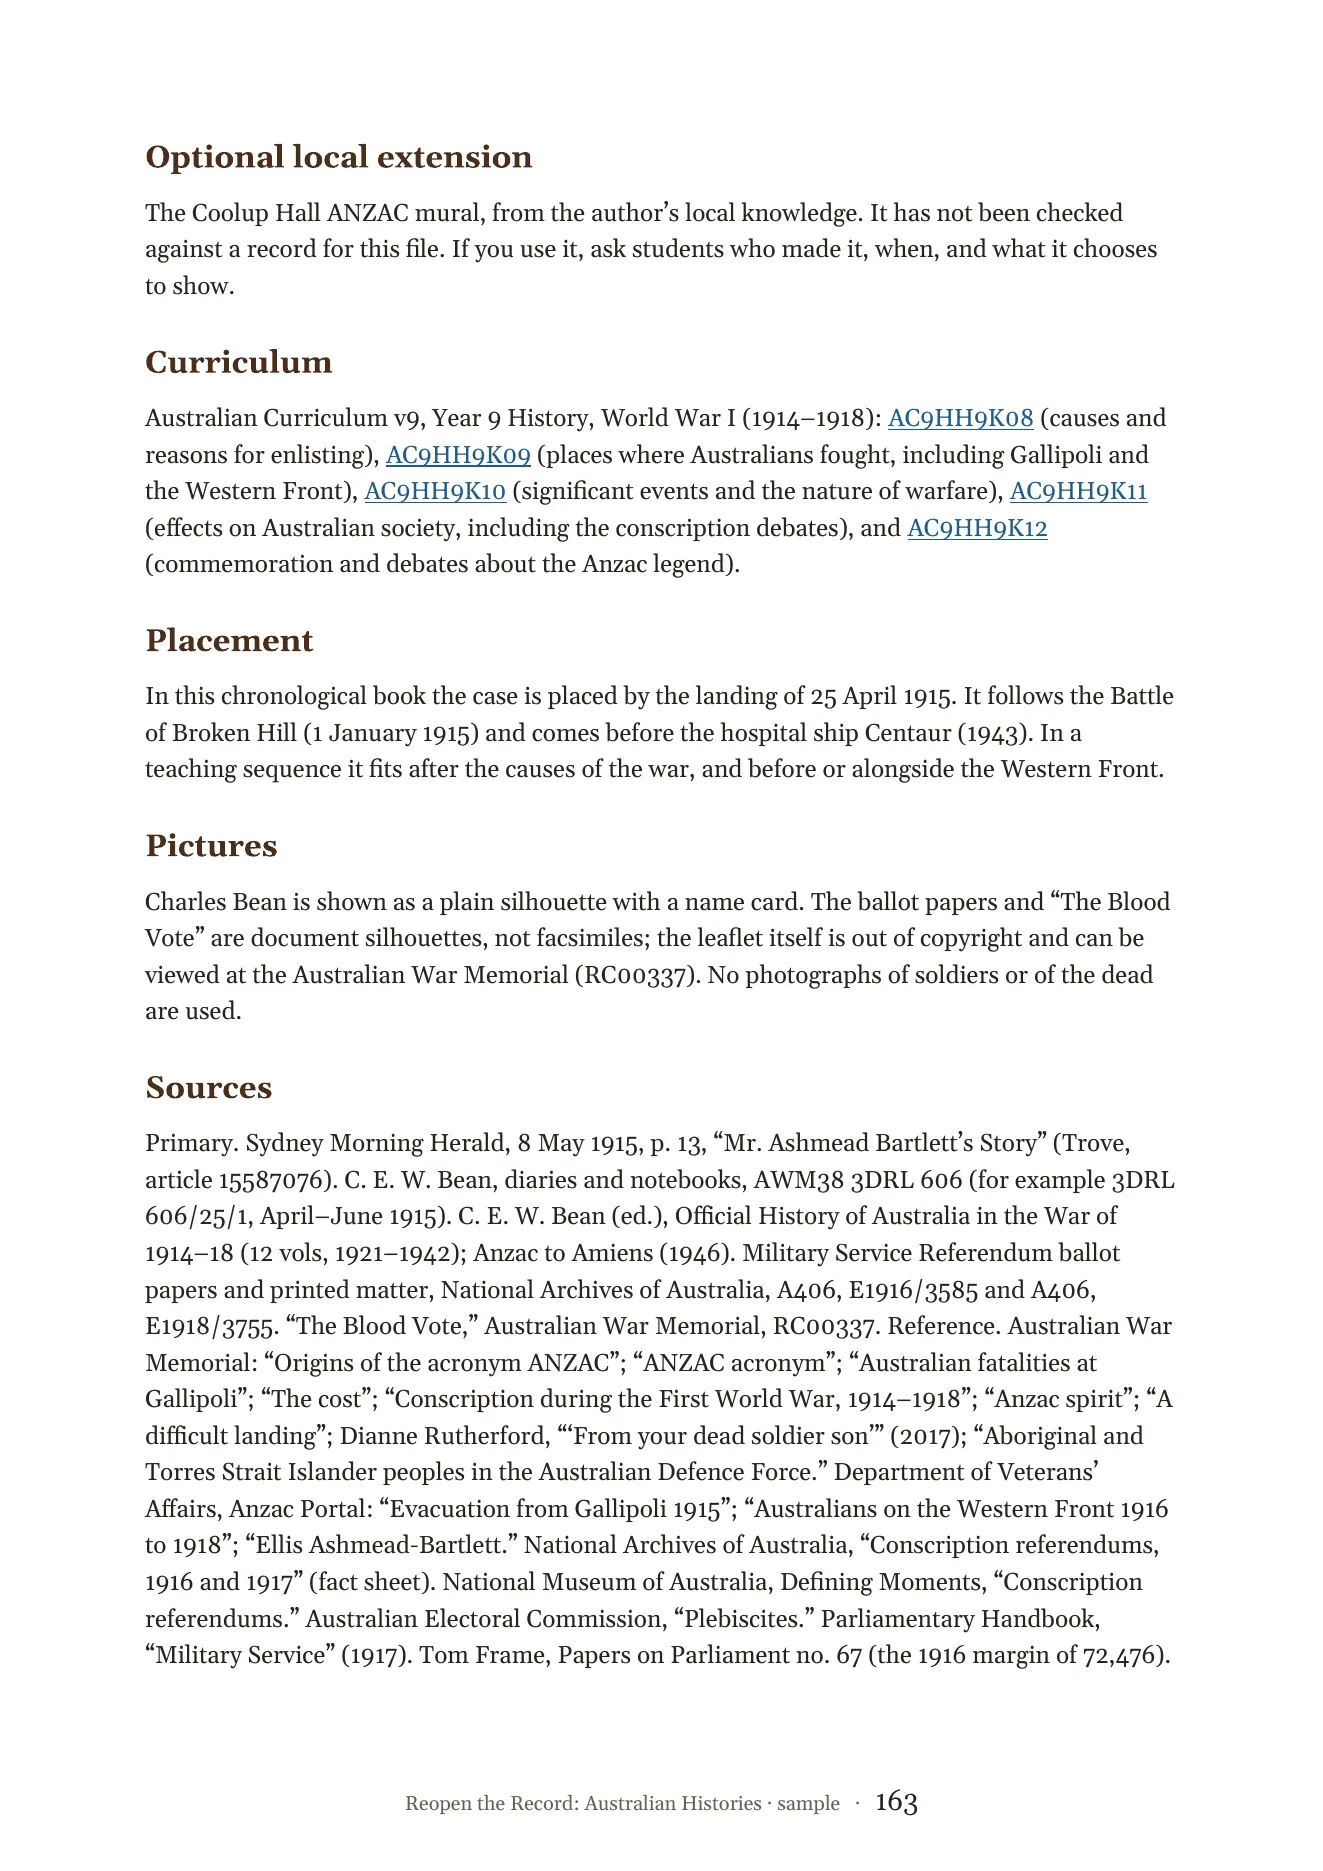
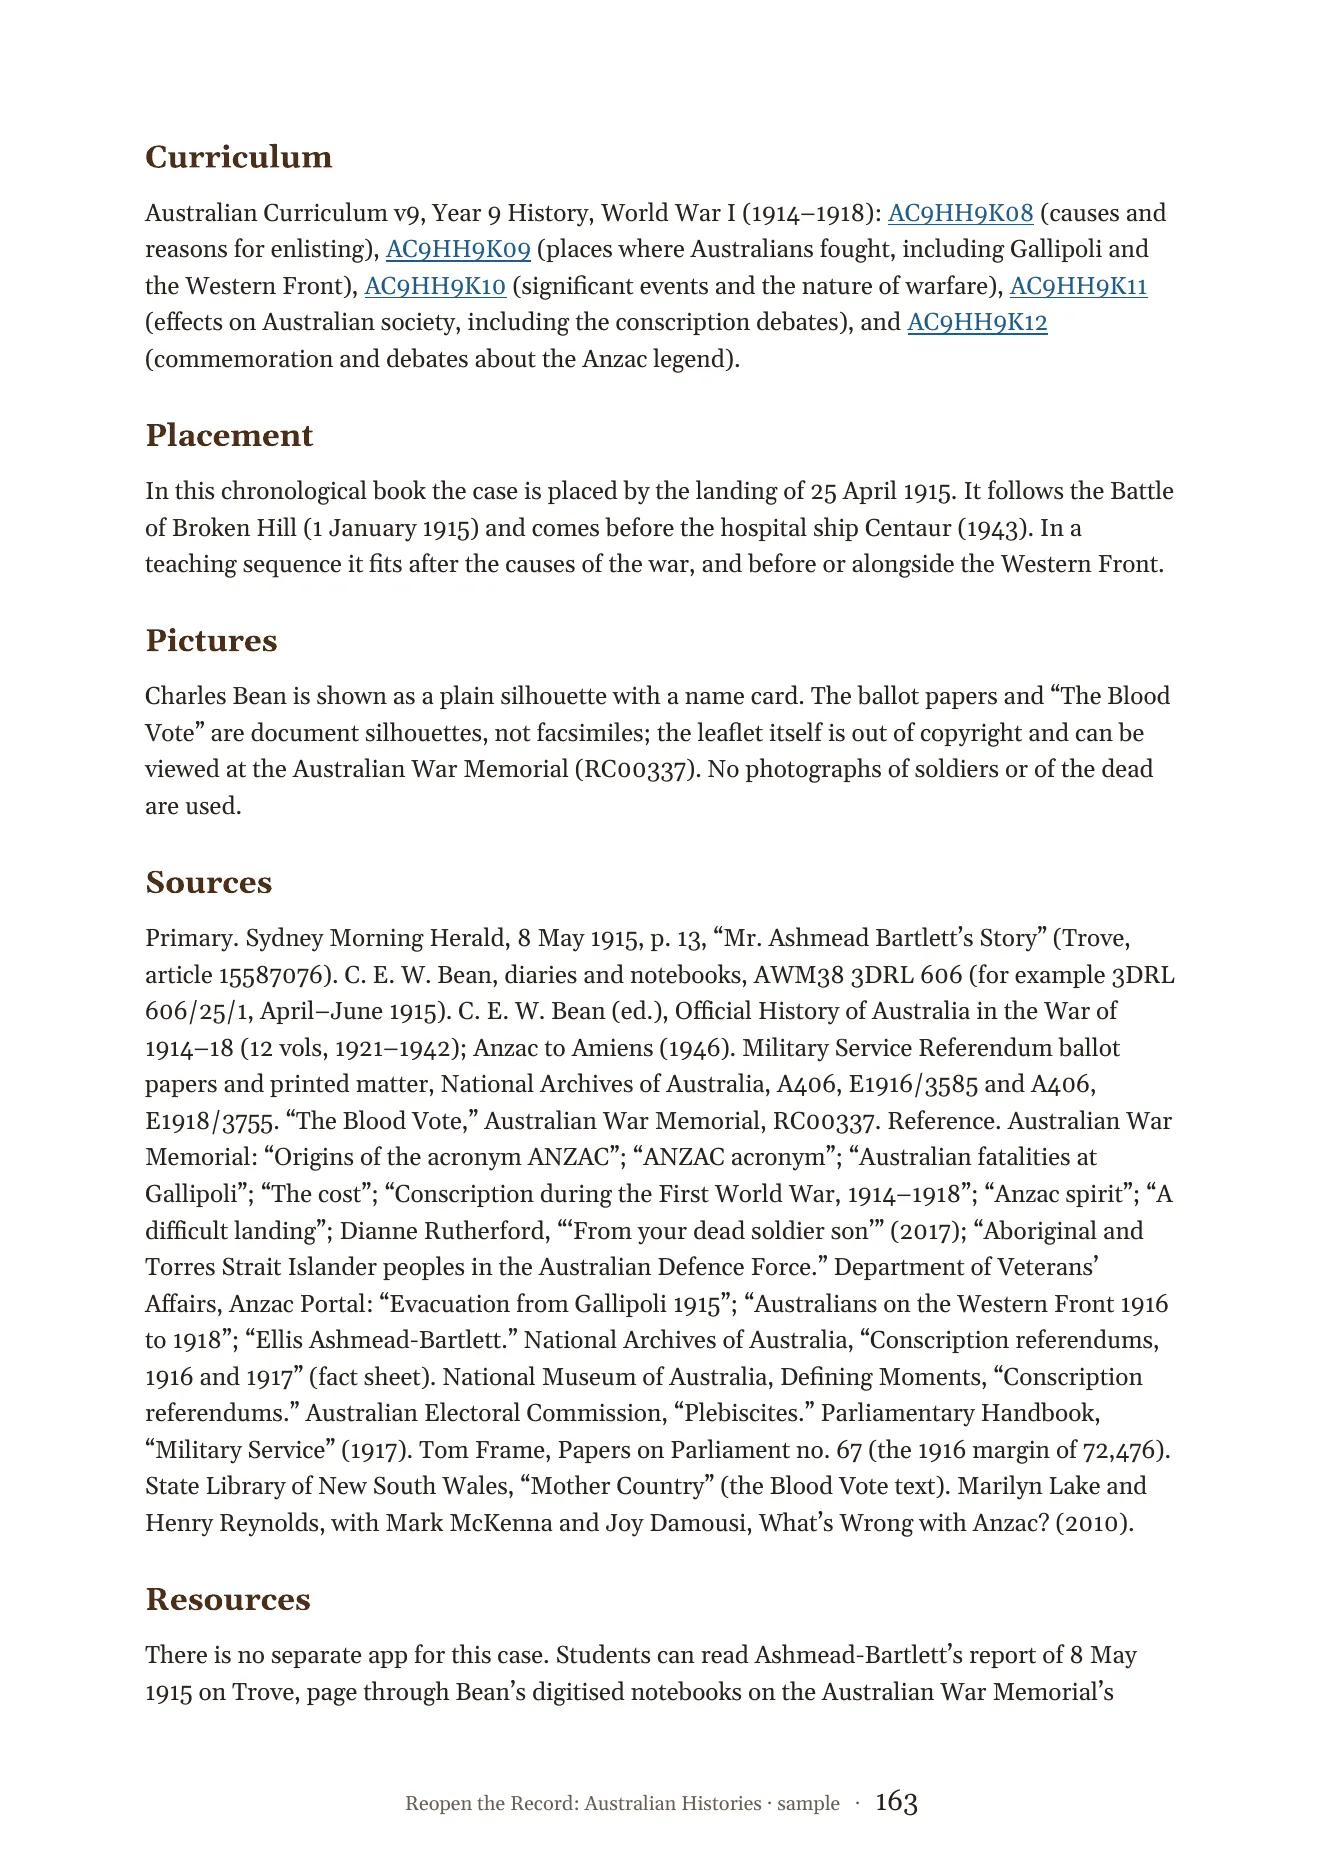
Drop the Coolup Hall mural from the Anzac Teacher Note

Changed region(s): [[0.093, 0.341, 0.8987, 0.93], [0.093, 0.062, 0.8677, 0.31]]

diff --git a/assets/data.js b/assets/data.js
@@ -1552,8 +1552,8 @@ window.BOOK = {
     "160": "Page 160. The Anzac Story: Gallipoli. THE ANZAC STORY, 1915–1917 · YEAR 9 · SUPER SLEUTHS Super Sleuths Go further only if you want to. Amber marks what is still disputed, or what later writers added. Work on paper. Each investigation nam",
     "161": "Page 161. The Anzac Story: Gallipoli. STILL IN DISPUTE, OR ADDED LATER 4. Sure, maybe, or a guess? Sort each claim. “Australia was born at Gallipoli.” “More Australians died on the Western Front than at Gallipoli.” “The 1916 vote was clos",
     "162": "Page 162. The Anzac Story: Gallipoli. Teacher Note THE ANZAC STORY, 1915–1917 · YEAR 9 · TEACHER NOTE This note is for the teacher. It is not a student page. What’s true about the opener This note is not part of the student page. The open",
-    "163": "Page 163. The Anzac Story: Gallipoli. Optional local extension The Coolup Hall ANZAC mural, from the author’s local knowledge. It has not been checked against a record for this file. If you use it, ask students who made it, when, and what",
-    "164": "Page 164. The Anzac Story: Gallipoli. State Library of New South Wales, “Mother Country” (the Blood Vote text). Marilyn Lake and Henry Reynolds, with Mark McKenna and Joy Damousi, What’s Wrong with Anzac? (2010). Resources There is no sep",
+    "163": "Page 163. The Anzac Story: Gallipoli. Curriculum Australian Curriculum v9, Year 9 History, World War I (1914–1918): AC9HH9K08 (causes and reasons for enlisting), AC9HH9K09 (places where Australians fought, including Gallipoli and the",
+    "164": "Page 164. The Anzac Story: Gallipoli. website, and view “The Blood Vote” (RC00337) in the Memorial’s collection. The reader app’s Referendums list links the 1916 and 1917 votes to this case. AWM, “Conscription during the First World War”",
     "165": "The hospital ship Centaur envelope: Sister Ellen Savage and the hospital ship Centaur, 1943, Year 10.",
     "166": "The hospital ship Centaur typographic opener, with an Imagined badge: “Written for this case, based on real events, not a real document.” A real 1943 photograph of the hospital ship Centaur in Sydney, Australian War Memorial 302800, captioned as a real photograph, public domain, then the scene of a journalist at an archive desk.",
     "167": "The hospital ship Centaur exhibit: a reconstructed 1943 Postmaster-General’s casualty telegram, clearly labelled Reconstruction, addressed only to the next of kin of a nursing sister, not to a named family, with the journalist’s reaction beneath it.",
@@ -1843,8 +1843,8 @@ window.BOOK = {
     "160": "Page 160. THE ANZAC STORY, 1915–1917 · YEAR 9 · SUPER SLEUTHS Super Sleuths Go further only if you want to. Amber marks what is still disputed, or what later writers added. Work on paper. Each investigation names the records, or the kind of record, to look for. STILL IN DISPUTE, OR ADDED LATER 1. Legend or myth? Some writers call Anzac a “legend,” and some a “myth.” Find one source from the time, such as As",
     "161": "Page 161. STILL IN DISPUTE, OR ADDED LATER 4. Sure, maybe, or a guess? Sort each claim. “Australia was born at Gallipoli.” “More Australians died on the Western Front than at Gallipoli.” “The 1916 vote was close.” For each one, write Sure, Maybe or Guess, and the record that decides it. Hint: in 1916 No won by 72,476 votes, about 51.6 per cent to 48.4 per cent. Question. Which claim can no record ever settl",
     "162": "Page 162. Teacher Note THE ANZAC STORY, 1915–1917 · YEAR 9 · TEACHER NOTE This note is for the teacher. It is not a student page. What’s true about the opener This note is not part of the student page. The opening scene is a reconstruction and carries an Imagined badge. No particular newspaper or reader is meant. What is true behind it: Australians knew by the end of April 1915 that troops had landed, and t",
-    "163": "Page 163. Optional local extension The Coolup Hall ANZAC mural, from the author’s local knowledge. It has not been checked against a record for this file. If you use it, ask students who made it, when, and what it chooses to show. Curriculum Australian Curriculum v9, Year 9 History, World War I (1914–1918): AC9HH9K08 (causes and reasons for enlisting), AC9HH9K09 (places where Australians fought, including G",
-    "164": "Page 164. State Library of New South Wales, “Mother Country” (the Blood Vote text). Marilyn Lake and Henry Reynolds, with Mark McKenna and Joy Damousi, What’s Wrong with Anzac? (2010). Resources There is no separate app for this case. Students can read Ashmead-Bartlett’s report of 8 May 1915 on Trove, page through Bean’s digitised notebooks on the Australian War Memorial’s website, and view “The Blood Vote”",
+    "163": "Page 163. The Anzac Story: Gallipoli. Curriculum Australian Curriculum v9, Year 9 History, World War I (1914–1918): AC9HH9K08 (causes and reasons for enlisting), AC9HH9K09 (places where Australians fought, including Gallipoli and the Western Front), AC9HH9K10 (significant events and the nature of warfare), AC9HH9K11 (effects on Australian society, including the conscription debates), and AC9HH9K12 (commemoration and debates about the Anzac legend). Placement In this chronological book the case is placed by the landing of 25 April 1915. It follows the Battle of Broken Hill (1 January 1915) and comes before the hospital ship Centaur (1943). In a teaching sequence it fits after the causes of the war, and before or alongside the Western Front. Pictures Charles Bean is shown as a plain silhouette with a name card. The ballot papers and “The Blood Vote” are document silhouettes, not facsimiles; the leaflet itself is out of copyright and can be viewed at the Australian War Memorial (RC00337). No photographs of soldiers or of the dead are used. Sources Primary. Sydney Morning Herald, 8 May 1915, p. 13, “Mr. Ashmead Bartlett’s Story” (Trove, article 15587076). C. E. W. Bean, diaries and notebooks, AWM38 3DRL 606 (for example 3DRL 606/25/1, April–June 1915). C. E. W. Bean (ed.), Official History of Australia in the War of 1914–18 (12 vols, 1921–1942); Anzac to Amiens (1946). Military Service Referendum ballot papers and printed matter, National Archives of Australia, A406, E1916/3585 and A406, E1918/3755. “The Blood Vote,” Australian War Memorial, RC00337. Reference. Australian War Memorial: “Origins of the acronym ANZAC”; “ANZAC acronym”; “Australian fatalities at Gallipoli”; “The cost”; “Conscription during the First World War, 1914–1918”; “Anzac spirit”; “A difficult landing”; Dianne Rutherford, “‘From your dead soldier son’” (2017); “Aboriginal and Torres Strait Islander peoples in the Australian Defence Force.” Department of Veterans’ Affairs, Anzac Portal: “Evacuation from Gallipoli 1915”; “Australians on the Western Front 1916 to 1918”; “Ellis Ashmead-Bartlett.” National Archives of Australia, “Conscription referendums, 1916 and 1917” (fact sheet). National Museum of Australia, Defining Moments, “Conscription referendums.” Australian Electoral Commission, “Plebiscites.” Parliamentary Handbook, “Military Service” (1917). Tom Frame, Papers on Parliament no. 67 (the 1916 margin of 72,476). State Library of New South Wales, “Mother Country” (the Blood Vote text). Marilyn Lake and Henry Reynolds, with Mark McKenna and Joy Damousi, What’s Wrong with Anzac? (2010). Resources There is no separate app for this case. Students can read Ashmead-Bartlett’s report of 8 May 1915 on Trove, page through Bean’s digitised notebooks on the Australian War Memorial’s Reopen the Record: Australian Histories · sample · 163",
+    "164": "Page 164. The Anzac Story: Gallipoli. website, and view “The Blood Vote” (RC00337) in the Memorial’s collection. The reader app’s Referendums list links the 1916 and 1917 votes to this case. AWM, “Conscription during the First World War” and “Anzac spirit”; NAA, “Conscription referendums, 1916 and 1917”; NMA, Defining Moments, “Conscription referendums”; Anzac Portal, “Evacuation from Gallipoli 1915.” Australian Curriculum v9, Year 9 History, AC9HH9K08–AC9HH9K12. Reopen the Record: Australian Histories · sample · 164",
     "165": "The hospital ship Centaur envelope.",
     "166": "Page 166. The hospital ship Centaur. IMAGINED Written for this case, based on real events, not a real document. A desk in an archive. Late. Today Real photograph: the hospital ship Centaur, Sydney, 1943. Australian War Memorial 302800. Photographer not identified. Copyright expired, public domain. The lamp makes a small circle on the desk. The rest of the room can wait. A folder sits where the last reader left it. No name on the cover. Only a ship, and a date: May 1943. The journalist does not start with a theory. They start with what is in front of them. The first slip is a telegram. A stamp on it says Reconstruction. It is not a real telegram, and it is not addressed to a real family. The wording is still the kind of wording that arrived at a door. Reopen the Record: Australian Histories · sample · 152",
     "167": "The hospital ship Centaur envelope.",

diff --git a/index.html b/index.html
@@ -14,8 +14,8 @@
   <meta property="og:url" content="https://robmac10.github.io/reopen-the-record/">
   <meta property="og:image" content="https://robmac10.github.io/reopen-the-record/assets/thumbs/p001.webp">
   <link rel="icon" href="assets/favicon.svg" type="image/svg+xml">
-  <link rel="stylesheet" href="assets/style.css?v=20261126b">
-  <link rel="stylesheet" href="assets/image-fit.css?v=20261126b">
+  <link rel="stylesheet" href="assets/style.css?v=20261126c">
+  <link rel="stylesheet" href="assets/image-fit.css?v=20261126c">
 </head>
 <body>
   <a class="skip" href="#main">Skip to the main content</a>
@@ -141,7 +141,7 @@
     <p style="padding:1em;text-align:center">This book needs JavaScript to turn the pages. The intended address is https://robmac10.github.io/reopen-the-record/</p>
   </noscript>
 
-  <script src="assets/data.js?v=20261126b"></script>
-  <script src="assets/app.js?v=20261126b"></script>
+  <script src="assets/data.js?v=20261126c"></script>
+  <script src="assets/app.js?v=20261126c"></script>
 </body>
 </html>
